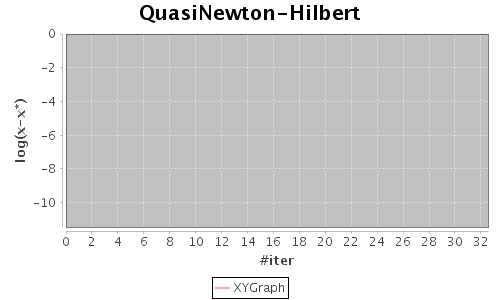
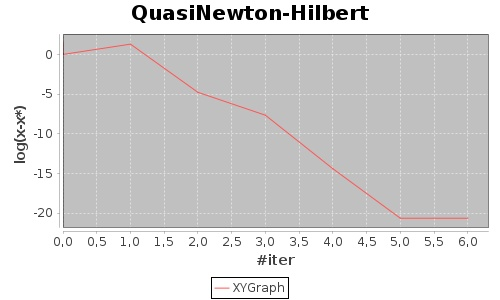
Fin du TP2

diff --git a/src/solve/QuasiNewton.java b/src/solve/QuasiNewton.java
@@ -114,25 +114,40 @@ public class QuasiNewton extends Algorithm {
 		Vector d = H.mult(b);
 		Vector xq = (iter_vec).add(d);
 		
-//		if(Q.eval(xq) < Q.eval(iter_vec)){	
-//			if (xq.sub(iter_vec).norm()<= dt){
-//				//On garde le deplacement xq
-//			}else{
-//				d = f.grad(iter_vec).leftmul(-(dt)/(f.grad(iter_vec).norm()));
-//				double alpha = 0 ;
-//				double gQg = (f.grad(iter_vec)).scalar(A.mult(f.grad(iter_vec)));
-//				if(gQg <= 0) {
-//					alpha = 1 ;
-//				}else {
-//					alpha = (Math.pow(f.grad(iter_vec).norm(),3))/(dt * gQg);
-//					alpha = min (alpha,1);
-//				}
-//				Vector cauchy = (iter_vec).add(d.leftmul(alpha));
-//				// On s'attaque au dogleg
-//				xq = cauchy ;
-//			}
-//			
-//		}else {
+		if(Q.eval(xq) < Q.eval(iter_vec)){	
+			if (xq.sub(iter_vec).norm()<= dt){
+				//On garde le deplacement xq
+			}else{
+				d = g.leftmul(-(dt)/(g.norm()));
+				double alpha = 0 ;
+				double gQg = g.scalar(A.mult(g));
+				if(gQg <= 0) {
+					alpha = 1 ;
+				}else {
+					alpha = (Math.pow(g.norm(),3))/(dt * gQg);
+					alpha = min (alpha,1);
+				}
+				Vector cauchy = (iter_vec).add(d.leftmul(alpha));
+				// On s'attaque au dogleg
+				// diff caracterise la direction suivant le segment cauchy-> xq
+				Vector diff = xq.sub(cauchy);
+				// on normalise diff
+				diff = diff.leftmul(1/diff.norm());
+				// Resoudre l'equation d'intersection segment sphere
+				double varDogleg = Math.pow(diff.scalar(iter_vec.sub(cauchy)),2) - Math.pow(iter_vec.sub(cauchy).norm(),2) + Math.pow(dt,2);
+				double distance = 0 ;
+				if(varDogleg > 0 ) {
+					distance = -diff.scalar(iter_vec.sub(cauchy)) + varDogleg;
+				}else {distance = -diff.scalar(iter_vec.sub(cauchy));}
+				// System.out.println("Dogled"+varDogleg);
+				// System.out.println("Distance"+distance);
+				Vector dogleg = cauchy.add(diff).leftmul(distance);
+				// System.out.println("dogleg :  "+dogleg.toString());
+				// System.out.println("cauchy :  "+cauchy.toString());
+				xq = dogleg ;
+			}
+			
+		}else {
 			d = g.leftmul(-(dt)/(g.norm()));
 			double alpha = 0 ;
 			double gQg = g.scalar(A.mult(g));
@@ -144,7 +159,7 @@ public class QuasiNewton extends Algorithm {
 			}
 			// Mis à jour direct du point cauchy dans xq
 			xq = (iter_vec).add(d.leftmul(alpha));
-		//}
+		}
 		
 		System.out.println("REGION DE CONFIANCE = "+dt);
 		// ----------------------------------------------------------------------------
@@ -163,19 +178,19 @@ public class QuasiNewton extends Algorithm {
 		Matrix correction ;
 		Vector error = Dg.sub( A.mult(Dx));
 		
-		System.out.println("A : Dx.scalar(error) = "+Dx.scalar(error));
+		// System.out.println("A : Dx.scalar(error) = "+Dx.scalar(error));
 		if(Math.abs(Dx.scalar(error)) > SMALL_CURVATURE) {
 			correction = error.mult(error).leftmul(1/Dx.scalar(error)) ;
 			A = A.add(correction);
-		}else{System.out.println("Trop proche de zero denominateur de mis a jour de A");}
+		}//else{System.out.println("Trop proche de zero denominateur de mis a jour de A");}
 		
 		//mis a jour de H
 		error = Dx.sub(H.mult(Dg));
-		System.out.println("H : Dg.scalar(error) = "+Dg.scalar(error));
+		// System.out.println("H : Dg.scalar(error) = "+Dg.scalar(error));
 			if(Math.abs(Dg.scalar(error)) > SMALL_CURVATURE) {
 				correction = error.mult(error).leftmul(1/Dg.scalar(error));
 			H = H.add(correction);
-		}else{System.out.println("Trop proche de zero denominateur de mis a jour de H");}
+		}//else{System.out.println("Trop proche de zero denominateur de mis a jour de H");}
 		
 		// ----------------------------------------------------------------------------
 		iter_vec = xq ;

diff --git a/src/main/Tp2.java b/src/main/Tp2.java
@@ -35,7 +35,7 @@ public class Tp2 {
 		ArrayList<Vector> xkplus = new ArrayList<Vector>();
 	
 		algo.start(x0);
-		algo.setMaxIteration(5);
+		algo.setMaxIteration(100);
 		algo.search(xkplus);
 		xopt = algo.current_vector();
 		int nbi = algo.current_iteration();
@@ -57,7 +57,7 @@ public class Tp2 {
 	    
 		
 		/* Generate the graphic */
-		new Plot(plotTitle,"#iter","log(x-x*)",fileName,it,gap);
+	    new Plot(plotTitle,"#iter","log(x-x*)",fileName,it,gap);
 	}
 
 	public static void QuasiNewtonAlmostDiag() {
@@ -95,11 +95,11 @@ public class Tp2 {
 	
 	
 	public static void main(String[] args) {
-		QuasiNewtonAlmostDiag();
+	//	QuasiNewtonAlmostDiag();
 	
 	//	QuasiNewtonHilbert();
 		
-	//		QuasiNewtonRosenbrock();
+		QuasiNewtonRosenbrock();
 
 		
 	}

diff --git a/src/func/Hilbert.java b/src/func/Hilbert.java
@@ -12,8 +12,9 @@ public class Hilbert extends QuadraForm {
 				Q.set(i,j,((double)1/(i+j+1)));				
 			}
 		}
-		System.out.println("Hilbet=");
+		System.out.println("Hilbet=\n");
 		System.out.println(Q);
+		System.out.println("===============================================");
 		return Q;	
 	}
 	

diff --git a/src/func/AlmostDiag.java b/src/func/AlmostDiag.java
@@ -14,7 +14,8 @@ public class AlmostDiag extends QuadraForm {
 				else {Q.set(i,j,((double)-1/n));}				
 			}
 		}
-		System.out.println("ALMOST DIAG="+Q);
+		System.out.println("ALMOST DIAG=\n"+Q);
+		System.out.println("===============================================");
 		return Q;	
 	
 	}
